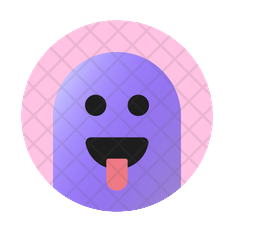
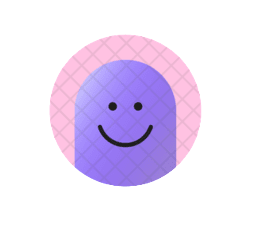
responsive remaining

Changed region(s): [[0.0827, 0.0598, 0.8543, 0.8974], [0.4961, 0.3889, 0.6063, 0.4786]]

diff --git a/src/components/services/Services.js b/src/components/services/Services.js
@@ -4,10 +4,15 @@ import awesomeImage2 from "../../img/awesomeImage2.png";
 import smile from "../../img/smile.png";
 import Cv from "../../cv/Cv.pdf";
 import "./Services.css"
+import {motion} from "framer-motion"
 
 const Services = () => {
+  const transition = {
+    duration: 1,
+    type: "spring",
+  };
   return (
-    <div className="services">
+    <div className="services" id="Services">
       <div className="awesome">
         <span>My Awesome</span>
         <span>Services</span>
@@ -25,26 +30,38 @@ const Services = () => {
         <div className="blur s-blur1" style={{ background: "#dfcae7", left: "20rem", top: "14rem" }}></div>
         <div className="blur s-blur1" style={{ background: "#dfcae7", left: "42rem", top: "32rem" }}></div>
       </div>
-
       <div className="cards">
-        <div style={{ left: "18rem" }}>
+      <motion.div
+          initial={{ left: "25rem" }}
+          whileInView={{ left: "18rem" }}
+          transition={transition}
+        >
           <Card
             emoji={awesomeImage1}
             heading={"Design"}
             detail={"HTML, CSS, Javascript, React"} />
-        </div>
-        <div style={{ top: "12rem", left: "-4rem" }}>
+              </motion.div>
+              <motion.div
+          initial={{ left: "-11rem", top: "12rem" }}
+          whileInView={{ left: "-4rem",top:"12rem" }}
+          transition={transition}
+        >
           <Card
             emoji={awesomeImage2}
             heading={"Design"}
             detail={"HTML, CSS, Javascript, React"} />
-        </div>
-        <div style={{ top: "28rem", left: "18rem" }}>
+            </motion.div>
+            <motion.div
+          initial={{ left: "25rem",top: "28rem" }}
+          whileInView={{ left: "18rem"  ,top: "28rem"}}
+          transition={transition}
+        >
           <Card
             emoji={smile}
             heading={"Design"}
             detail={"HTML, CSS, Javascript, React"} />
-        </div>
+            </motion.div>
+
         <div
           className="blur s-blur2"
           style={{

diff --git a/src/components/intro/Intro.js b/src/components/intro/Intro.js
@@ -4,11 +4,10 @@ import InstagramIcon from '@mui/icons-material/Instagram';
 import Vector1 from "../../img/Vector1.png"
 import Vector2 from "../../img/Vector2.png"
 import hassan from "../../img/hassan.png"
-import crown from "../../img/crown.png";
+import icon8Crown from "../../img/icon8Crown.png"
 import thumbup from "../../img/thumbup.png";
 import smile from "../../img/smile.png";
 import FloatingDiv from "../floatingDiv/FloatingDiv";
-import FloatingDiv2 from "../floatngDiv2/FloatingDiv2";
 import "./Intro.css"
 import {motion} from "framer-motion"
 const Intro = () => {
@@ -41,9 +40,9 @@ const Intro = () => {
                 </div>
             </div>
             <div className="i-right" >
-            <img src={Vector1} alt="" style={{top:"10%",left:"8%"}}/>
-            <img src={Vector2} alt="" style={{top:"12%",left:"10%"}}/>
-            <img src={hassan} alt="" style={{top:"-8%",left:"20%"}}/>
+            <img src={Vector1} alt="" />
+            <img src={Vector2} alt="" />
+            <img src={hassan} alt="" />
             <motion.img
             initial={{left:"-36%"}}
             whileInView={{left:"-24%"}}
@@ -52,23 +51,19 @@ const Intro = () => {
             src={smile} alt="smile"/>
 
             
-<motion.div initial={{left:"46%",top:"1%"}}
-            whileInView={{left:"36%",top:"1%"}}
+<motion.div initial={{right:"-9%",top:"-16%"}}
+            whileInView={{right:"5%",top:"-16%"}}
             transition={transition}
-
 >
-        
-
-
-    <FloatingDiv image ={crown} txt1="web" txt2="Developer"  />
+    <FloatingDiv image ={icon8Crown} txt1="Web" txt2="Developer"   />
 </motion.div>
 
 
-<motion.div initial={{left:"0%",top:"100%"}}
-whileInView={{left:"10%",top:"100%"}}
+<motion.div initial={{left:"-13%",top:"65%"}}
+whileInView={{left:"1%",top:"65%"}}
 transition={transition} >
-<FloatingDiv2 
-image = {thumbup} text1 = "web" text2 ="Developer"/>
+<FloatingDiv
+image = {thumbup} txt1 = "Web" txt2 ="Developer"/>
 </motion.div>
 <div className='blur' ></div>
 <div className="blur2"></div>

diff --git a/src/components/header/Header.js b/src/components/header/Header.js
@@ -1,6 +1,8 @@
 import React from 'react'
 import Toggle from '../toggle/Toggle';
 import "./Header.css";
+import {Link} from 'react-scroll';
+
 const Header = () => {
     return (
         <div className="h-wrapper">
@@ -12,11 +14,24 @@ const Header = () => {
             <div className="h-right">
                 <div className="h-list">
                     <ul style={{listStyleType:"none"}}>
+                       <Link spy={true} smooth={true} to="Header" >
                         <li>Home</li>
+                        </Link>
+                       <Link spy={true} smooth={true} to="Services" >
+
                         <li>Services</li>
+                        </Link>
+                        <Link spy={true} smooth={true} to="Experience" >
+
                         <li>Experience</li>
+                        </Link>
+
+                       <Link spy={true} smooth={true} to="Portfolio" >
+
                         <li>Portfolio</li>
-                        <li>Testimonials</li>
+                        </Link>
+
+                        
                     </ul>
                 </div>
             </div>

diff --git a/src/components/intro/Intro.css b/src/components/intro/Intro.css
@@ -19,27 +19,31 @@ padding: 30px;
 }
 .i-right>*{
     position: absolute;
-    /* z index prhna hain */
     z-index: 1;
 }
-.i-right>:nth-child(1){
-transform: scale(0.62);
-left: -6rem;
-top: -9%;
+.i-right>:nth-child(1) {
+    transform: scale(1);
+    left: 6%;
+  }
+.i-right>:nth-child(2) {
+    top: 1rem;
+    transform: scale(1);
+    left: 6rem;
+  }
+.i-right>:nth-child(3) {
+    transform: scale(1);
+    left: 24%;
+    top: -29%;
 
-
-
-}
-.i-right>:nth-child(2){
-    top: -1.8em;
-    transform: scale(0.77);
-    left: -2rem;
-}
-.i-right>:nth-child(3){
-    transform:scale(0.7);
-    left:-3.rem;
-    top: -8em;
-}
+    
+  }
+  .i-right > :nth-child(4) {
+    transform: scale(0.62);
+    top: -19%;
+    left: -24%;
+    border-radius: 50%;
+    padding: 0;
+  }
 .i-name{
     display: flex;
     flex-direction:column;

diff --git a/src/components/floatingDiv/FloatingDiv.css b/src/components/floatingDiv/FloatingDiv.css
@@ -1,33 +1,16 @@
-.floatingDiv1{
-/* 
-justify-content: space-around;
-    display: flex;
-    background:rgb(254, 254, 254);
-    box-shadow: rgb(138, 56, 200);
-    border-radius: 14px;
-align-items: center;
-padding-right: 29px;
-
-    height: 4.5rem;
-    width: 11rem;
-   
-} */
+.floatingDiv{
 display: flex;
-align-items: center;
 background-color: rgb(227, 216, 237);
-height: 3rem;
+align-items: center;
 border-radius: 12px;
-
+gap: 1rem;
+padding: 2px;
+width: 12rem;
 }
-.floatingDiv1>img{
-    transform: scale(0.5);
+.floatingDiv>img{
+    transform: scale(1.4);
 }
-.floatingDiv1>span{
-   
-   
-   
-font-family: sans-serif;
-font-size: 18px;
+.floatingDiv>span{
+    color: black;
 font-weight: bold;
-float: left;
 }

diff --git a/src/components/header/Header.css b/src/components/header/Header.css
@@ -31,25 +31,18 @@
     gap: 2rem;
     margin-right: 4rem;
     font-size: larger;
+    cursor: pointer;
+
 }
 .h-list>ul>li:hover{
+    
     cursor: pointer;
     color:#b033aa
 }
-.button{
-    border-radius: 34px;
-    border:none;
-    color:white;
-    font-size:16px;
-    padding: 11px 26px 11px 26px;
-background: linear-gradient(180deg,#784376 26.71%,#340E32 99.36%);
-box-shadow: 0px 20px 24px 3px #d742d0
-}
-.button:hover{
-    background:white;
-    cursor:pointer;
-    color: #b033aa;
-    border: 1px solid #b033aa;
 
+@media screen and (max-width:480px) {
+    .n-list{
+        display: none;
+    }
 }
 

diff --git a/src/App.css b/src/App.css
@@ -1,2 +1,23 @@
 
-  
+  .button{
+    border-radius: 34px;
+    border:none;
+    color:white;
+    font-size:16px;
+    padding: 11px 26px 11px 26px;
+background: linear-gradient(180deg,#784376 26.71%,#340E32 99.36%);
+box-shadow: 0px 20px 24px 3px #d742d0
+}
+.button:hover{
+    background:white;
+    cursor:pointer;
+    color: #b033aa;
+    border: 1px solid #b033aa;
+
+}
+@media screen and (max-width:480px){
+    .App{
+        padding:0.5rem  1rem;
+    }
+    
+}

diff --git a/src/components/experience/Experience.js b/src/components/experience/Experience.js
@@ -3,7 +3,7 @@ import "./Experience.css";
 const Experience = () => {
   const darkMode = useSelector((state)=>state.toggleReducer.darkMode)
   return (
-    <div className="experience">
+    <div className="experience" id="Experience">
     <div className="Acheivement">
         <div className="circle" style={{backgroundColor: darkMode? "black" : "white"}}>+8</div>
         <span> Year</span>

diff --git a/src/components/toggle/Toggle.js b/src/components/toggle/Toggle.js
@@ -14,9 +14,8 @@ const handleClick = ()=>{
 
         <div className="toggle" onClick={handleClick}>
             <LightModeIcon  />
-            <DarkModeIcon />
-            
-        <CircleIcon  style={darkMode?{left:"2px"}:{right:"2px"}}/>
+            <DarkModeIcon />     
+            <CircleIcon  style={darkMode?{left:"2px"}:{right:"2px"}}/>
         </div>
         
         

diff --git a/src/components/card/Card.css b/src/components/card/Card.css
@@ -1,6 +1,6 @@
 .card {
     background-color: rgba(204, 160, 249, 0.061);
-    height: 20rem;
+    height: 18rem;
     position:absolute ;
     display: flex;
     flex-direction: column;
@@ -10,7 +10,6 @@
    border-radius: 20px;
    padding: 0px 26px 2rem 26px;
    align-items: center;
-   gap: 1rem;
 }
 .card span:nth-child(2){
     font-size: 30px;

diff --git a/src/components/portfolio/Portfolio.js b/src/components/portfolio/Portfolio.js
@@ -10,7 +10,7 @@ import quote from "../../img/quote.PNG"
 const Portfolio = () => {
   return (
     
-      <div className="portfolio">
+      <div className="portfolio" id="Portfolio">
         {/* heading */}
         <span>Recent Project</span>
         <span>Portfolio</span>

diff --git a/src/components/floatingDiv/FloatingDiv.js b/src/components/floatingDiv/FloatingDiv.js
@@ -2,7 +2,7 @@ import "./FloatingDiv.css";
 const FloatingDiv = (
   { image, txt1, txt2 }) => {
   return (
-    <div className="floatingDiv1">
+    <div className="floatingDiv">
       <img src={image} alt='' />
       <span>
         {txt1}
